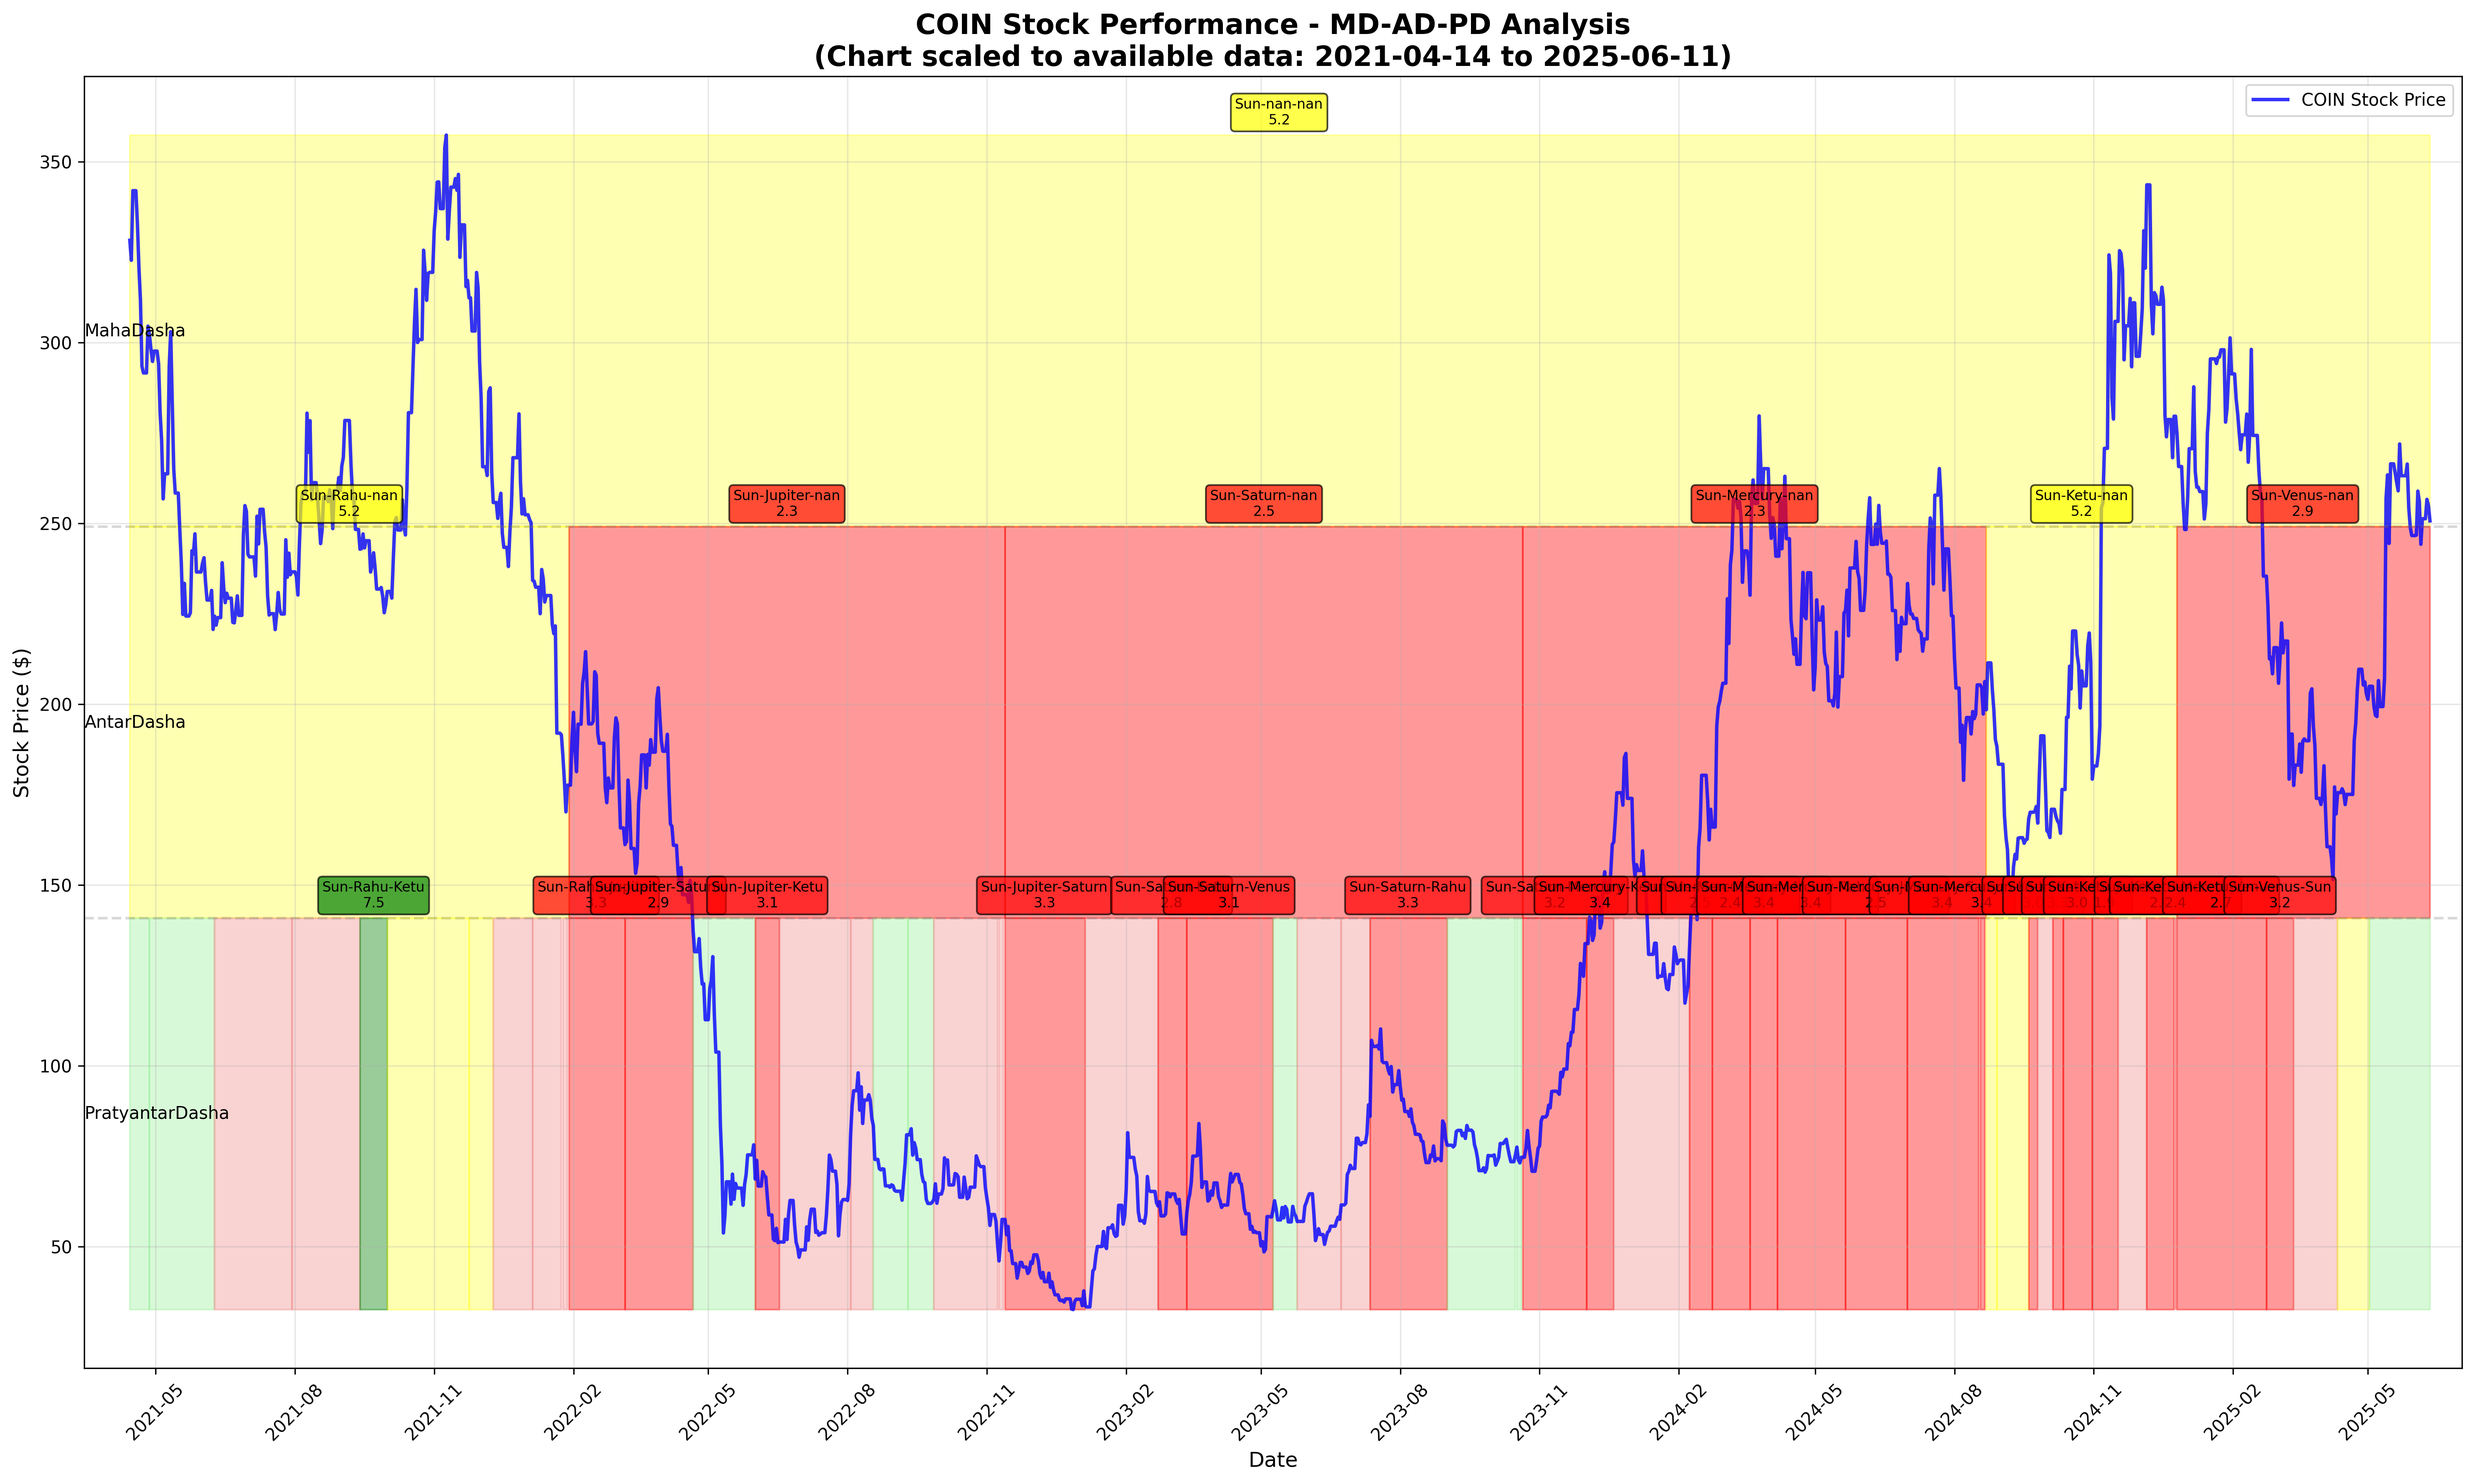
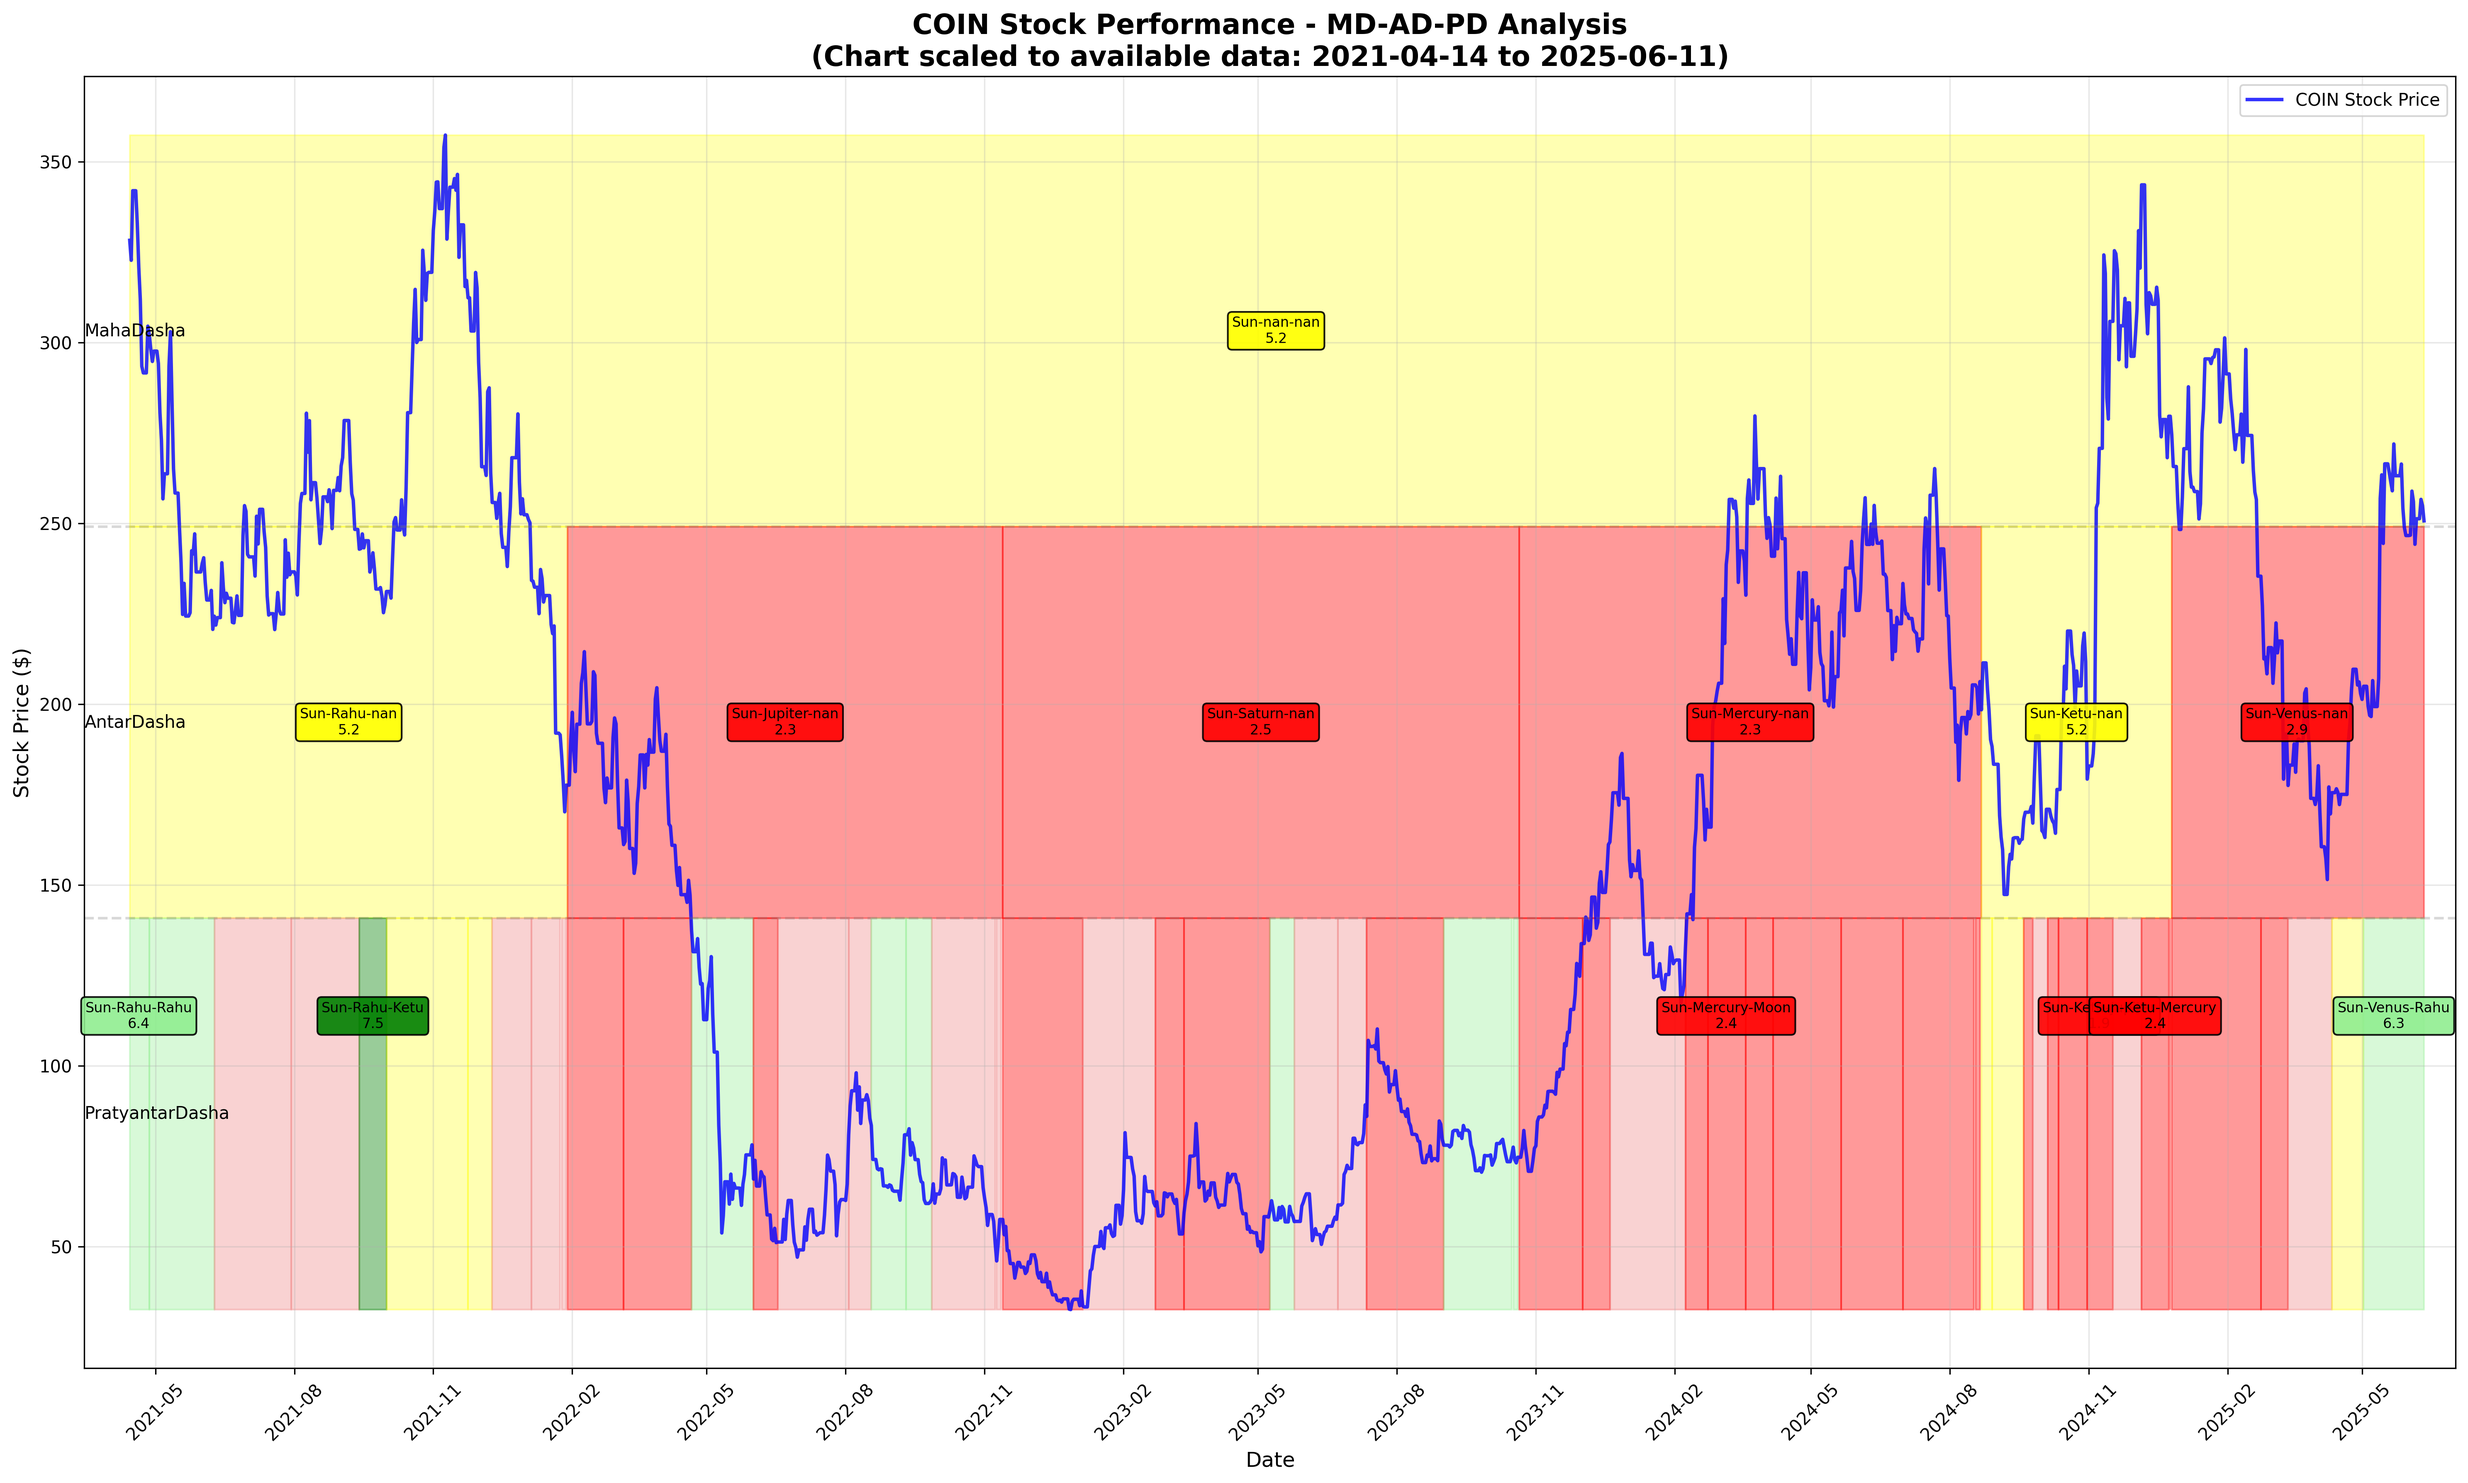
cleaning up output of charts

diff --git a/dasha_stock_analysis.py b/dasha_stock_analysis.py
@@ -11,7 +11,7 @@ Example: python dasha_stock_analysis.py analysis/PLTR lagna,chandra_lagna
 
 import pandas as pd
 import json
-from datetime import datetime, timedelta
+from datetime import datetime, timedelta, date
 import time
 import sys
 import os
@@ -410,8 +410,110 @@ class EnhancedDashaStockAnalyzer:
                 else:  # Between 0.5 and 1.5 below 5
                     return 'lightcoral', 0.35
         
+        # Function to check if two periods overlap
+        def periods_overlap(period1, period2, min_gap_days=30):
+            # Convert dates to datetime objects if they're not already
+            def to_datetime(date_val):
+                if isinstance(date_val, datetime):
+                    return date_val
+                elif isinstance(date_val, str):
+                    return datetime.strptime(date_val, '%Y-%m-%d')
+                elif isinstance(date_val, date):
+                    return datetime.combine(date_val, datetime.min.time())
+                else:
+                    raise ValueError(f"Unexpected date type: {type(date_val)}")
+            
+            start1 = to_datetime(period1['start_date'])
+            end1 = to_datetime(period1['end_date'])
+            start2 = to_datetime(period2['start_date'])
+            end2 = to_datetime(period2['end_date'])
+            
+            # Calculate the midpoints
+            mid1 = start1 + (end1 - start1) / 2
+            mid2 = start2 + (end2 - start2) / 2
+            
+            # Check if the midpoints are within min_gap_days of each other
+            return abs((mid2 - mid1).days) < min_gap_days
+
         # Function to plot periods in a section
         def plot_section(periods, y_base, height, label_offset=0.02, period_type=''):
+            if not periods:
+                return
+                
+            # Sort periods by start date
+            periods = sorted(periods, key=lambda x: x['start_date'])
+            
+            # Different logic for different period types
+            if period_type == 'MD-AD-PD':  # Pratyantardashas - show 6 strongest non-consecutive
+                # Always include first and last
+                first_period = periods[0]
+                last_period = periods[-1]
+                
+                # For middle periods, get the strongest non-consecutive periods
+                middle_periods = periods[1:-1] if len(periods) > 2 else []
+                middle_periods_sorted = sorted(middle_periods, 
+                                             key=lambda x: abs(x.get('auspiciousness', 5.0) - 5.0), 
+                                             reverse=True)
+                
+                # Select non-consecutive periods
+                selected_periods = [first_period]
+                
+                for candidate in middle_periods_sorted:
+                    # Check if this candidate is consecutive with any already selected period
+                    is_consecutive = False
+                    for selected in selected_periods:
+                        if periods_overlap(candidate, selected, min_gap_days=15):  # Smaller gap for pratyantardashas
+                            is_consecutive = True
+                            break
+                    
+                    if not is_consecutive:
+                        selected_periods.append(candidate)
+                        # Stop when we have 6 total (including first and last)
+                        if len(selected_periods) >= 5:  # 5 because we'll add last_period
+                            break
+                
+                # Add last period if it's not already included and not consecutive with the last selected
+                if last_period not in selected_periods:
+                    # Check if last period is consecutive with any selected period
+                    is_consecutive = False
+                    for selected in selected_periods:
+                        if periods_overlap(last_period, selected, min_gap_days=15):
+                            is_consecutive = True
+                            break
+                    
+                    if not is_consecutive or len(selected_periods) < 6:
+                        selected_periods.append(last_period)
+                
+                periods_to_show = selected_periods
+                
+            else:  # Mahadashas and Antardashas - show all with overlap filtering
+                # Always show first and last periods
+                first_period = periods[0]
+                last_period = periods[-1]
+                
+                # For the remaining periods, filter based on significance and overlap
+                middle_periods = periods[1:-1] if len(periods) > 2 else []
+                filtered_periods = []
+                
+                i = 0
+                while i < len(middle_periods):
+                    current_period = middle_periods[i]
+                    auspiciousness = current_period.get('auspiciousness', 5.0)
+                    
+                    # Check for overlap with previous period
+                    if filtered_periods and periods_overlap(filtered_periods[-1], current_period):
+                        prev_auspiciousness = filtered_periods[-1].get('auspiciousness', 5.0)
+                        # Keep the one that deviates more from neutral (5.0)
+                        if abs(auspiciousness - 5.0) > abs(prev_auspiciousness - 5.0):
+                            filtered_periods[-1] = current_period
+                    else:
+                        filtered_periods.append(current_period)
+                    i += 1
+                
+                # Combine first, filtered middle, and last periods
+                periods_to_show = [first_period] + filtered_periods + [last_period]
+            
+            # Plot each period
             for period in periods:
                 original_start = period['start_date']
                 original_end = period['end_date']
@@ -438,24 +540,20 @@ class EnhancedDashaStockAnalyzer:
                                [y_top, y_top], 
                                color=color, alpha=alpha)
                 
-                # Add label based on period type
-                mid_date = effective_start + (effective_end - effective_start) / 2
-                label_y = y_top + (height * label_offset)
-                
-                # Determine if we should show the label
-                show_label = False
-                if period_type == 'MD':  # Show all mahadashas
-                    show_label = True
-                elif period_type == 'MD-AD':  # Show all antardashas
-                    show_label = True
-                elif period_type == 'MD-AD-PD':  # Show only significant prayantardashas
-                    show_label = abs(auspiciousness - 5.0) > 1.5
-                
-                if show_label:
+                # Add label if this period should be shown
+                if period in periods_to_show:
+                    mid_date = effective_start + (effective_end - effective_start) / 2
+                    
+                    # Position label within the colored region of the section
+                    if period_type == 'MD-AD-PD':  # Pratyantardashas - top 1/4 of section
+                        label_y = y_bottom + (height * 0.75)  # Top 1/4 of the section
+                    else:  # Mahadashas and Antardashas - middle of section
+                        label_y = y_bottom + (height * 0.5)  # Middle of the section
+                    
                     label_text = f"{period['period_label']}\n{auspiciousness:.1f}"
                     plt.annotate(label_text, xy=(mid_date, label_y),
-                               ha='center', va='bottom', fontsize=8,
-                               bbox=dict(boxstyle='round,pad=0.3', facecolor=color, alpha=0.7),
+                               ha='center', va='center', fontsize=8,
+                               bbox=dict(boxstyle='round,pad=0.3', facecolor=color, alpha=0.9),
                                rotation=0)
         
         # Plot each section with their respective period types
